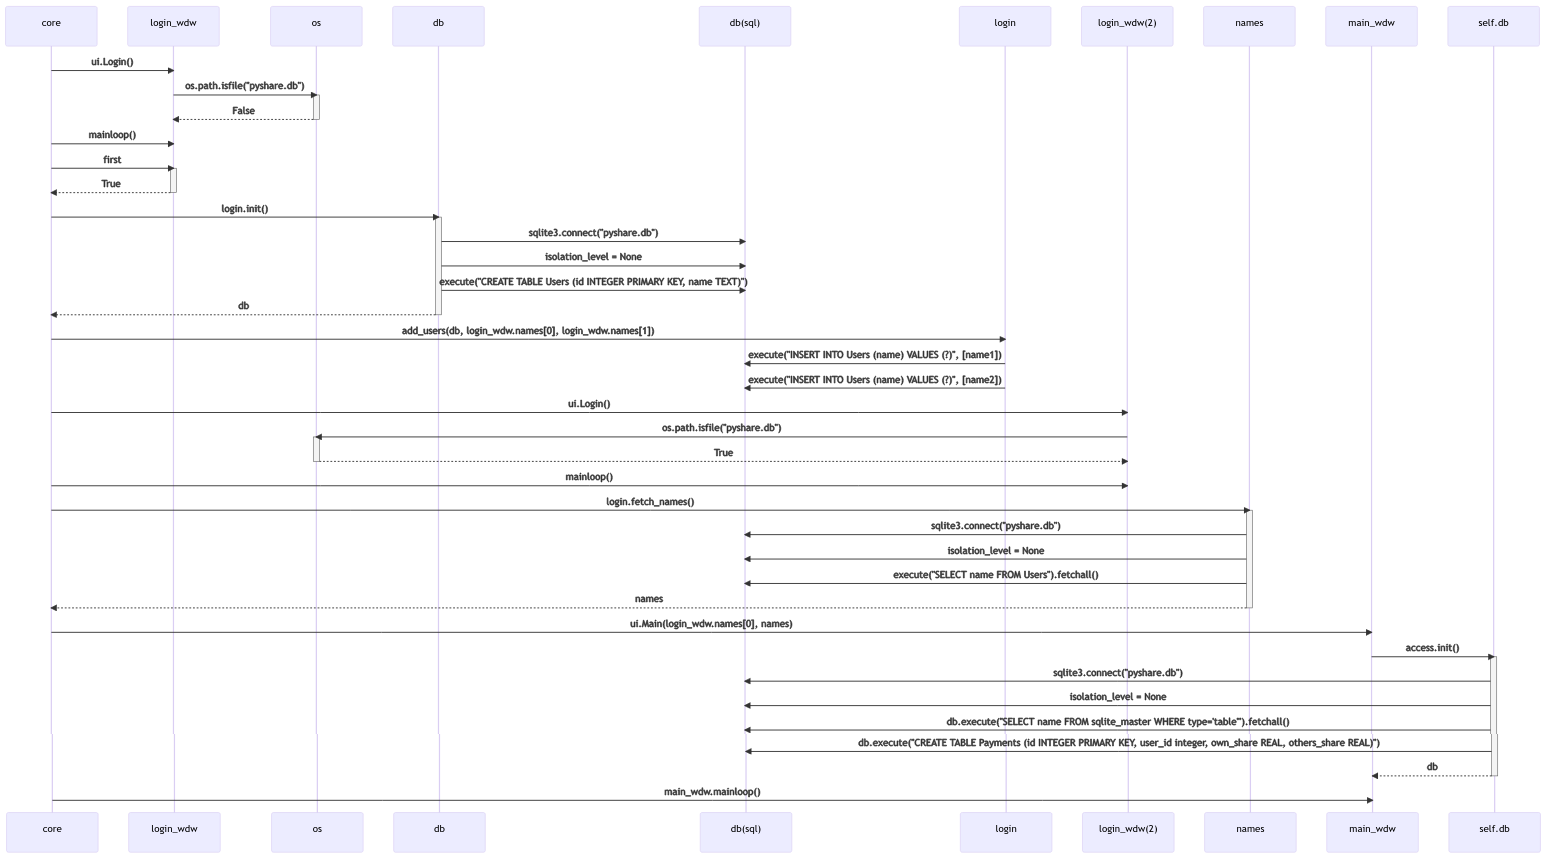
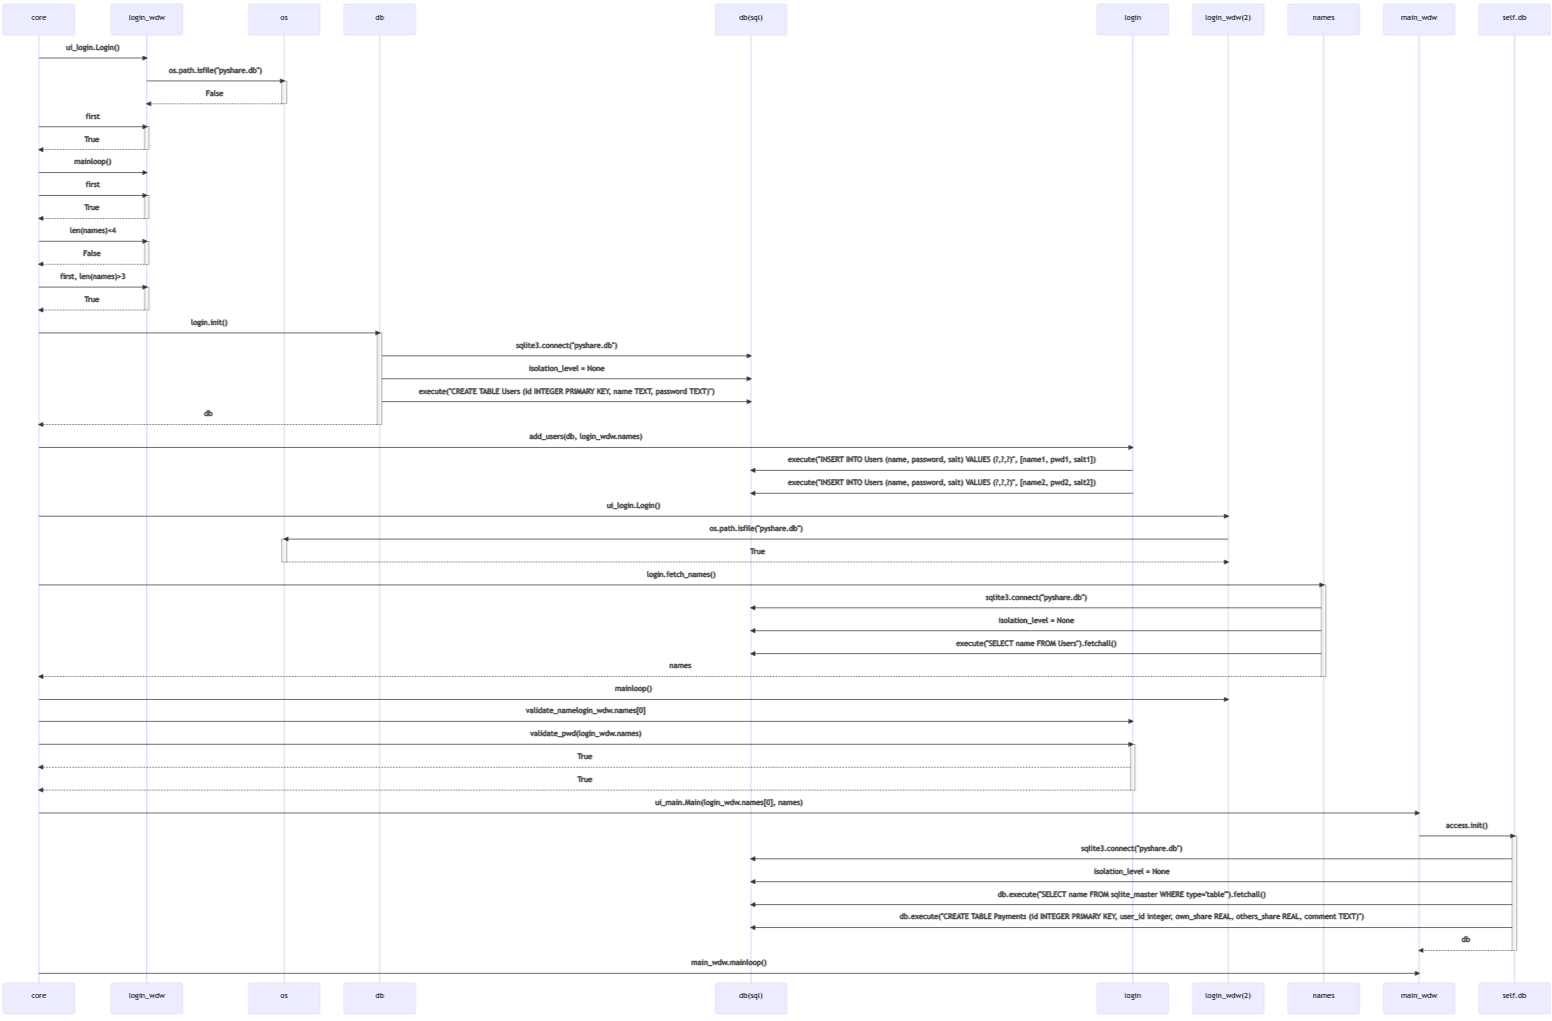
second version of week 6

diff --git a/src/ui/ui_login.py b/src/ui/ui_login.py
@@ -86,6 +86,7 @@ class Login(tk.Tk):
             self.user_label2.grid(row=4, column=0, columnspan=5, sticky="W")
         elif self.v1.get() == 0:
             # 0 -> not pressed
+            self.title_label.destroy()
             self.user_label1.destroy()
             self.user_label2.destroy()
 

diff --git a/src/db/login.py b/src/db/login.py
@@ -1,6 +1,5 @@
 import sqlite3
 import bcrypt
-import os
 
 # pylint expanantions:
 # -name "db" makes no sense in snake_case format

diff --git a/src/core.py b/src/core.py
@@ -1,4 +1,3 @@
-import sqlite3
 from ui import ui_main
 from ui import ui_login
 from db import login

diff --git a/dokumentaatio/kayttoohje.md b/dokumentaatio/kayttoohje.md
@@ -1,0 +1,24 @@
+# Käyttöohje
+
+Riippuvuuksien asentamisen jälkeen sovellus käynnistetään komennolla _poetry run invoke start_.
+&nbsp; <br>
+&nbsp; <br>
+Tämän jälkeen kumpikin käyttäjä luo itselleen **uniikin** käyttäjätunnuksen ja salasanan. "__Enter__"-napista pääsee eteenpäin, kun käyttäjä ja salasana ovat uniikkeja ja pituudeltaan vähintään yksi merkki. 
+&nbsp; <br>
+&nbsp; <br>
+Käyttäjien luomisen jälkeen pääsee sisäänkirjautumisnäkymään, johon samaan tapaan kirjoitetaan käyttäjätunnus ja salasana. Jos käyttäjä ei muista tunnustaan, "__Forgot Username?__" -valinnalla sen saa esiin.
+&nbsp; <br>
+&nbsp; <br>
+Pääikkunassa käyttäjä näkee vasemmalla suhteellisen velan (__Total__). Vihreällä värillä oleva positiivinen luku tarkoittaa, että käyttäjä on maksanut toista käyttäjää enemmän. Punainen ja negatiivinen luku puolestaan tarkoittaa, että käyttäjä on toiselle velkaa kyseisen summan.
+&nbsp; <br>
+&nbsp; <br>
+Käyttäjä voi lisätä maksun kahdella tavalla; hän voi valita tavan __50-50-splitting__, jolloin jompaankumpaan laatikkoon kirjoitettu summa kopioituu toiseen laatikkoon. Vaihtoehtoisesti käyttäjä voi valita __Choose shares__ -tavan, jolloin luvut voivat olla toisistaan eroavat. Laatikoihin voi kirjoittaa vain epänegatiivisia lukuja.
+&nbsp; <br>
+&nbsp; <br>
+Käyttäjä voi myös halutessaan lisätä kommentin, joka liitetään maksun yhteyteen. Maksun lisääjä, hänen osuutensa, toisen osuus sekä mahdollinen kommentti tulevat maksun lisäämisen jälkeen näkyville ruudulla näkyvään kenttään. Maksu lisätään __Enter__-napilla, joka hyväksyy maksun, jos kummassakin kentässä on sallittu summa.
+&nbsp; <br>
+![main window](main_window1.png)
+&nbsp; <br>
+## Ongelmatilanteet
+&nbsp; <br>
+Jos käyttäjä unohtaa salasanansa, syöttää väärät maksutiedot (tai haluaa nollata tilanteen) tai jotain odottamatonta tapahtuu, täytyy ohjelma resetoida. Tämä käy helpoiten komennolla _poetry run invoke test_, joka suorittaa testit ja samalla poistaa tietokannan. __Tietokannan poisto on peruuttamaton toimenpide, eikä tietoja saa palautettua__. 

diff --git a/dokumentaatio/arkkitehtuurikuvaus.md b/dokumentaatio/arkkitehtuurikuvaus.md
@@ -53,6 +53,16 @@ Yllä on kuvattu sovelluksen rakennetta. Isolla alkukirjaimella alkavat nimet ov
 &nbsp; <br>
 ![sequence](combined.png)
 &nbsp; <br>
-Yllä on kuvattu sovelluksen ensimmäistä käyttökertaa pääohjelman (core.py) näkökulmasta.
+Yllä on kuvattu sovelluksen ensimmäistä käyttökertaa pääohjelman (core.py) näkökulmasta. Voit klikata kuvaa avataksesi suuremman näkymän.
+&nbsp; <br>
 
+
+## Turvallisuus
+&nbsp; <br>
+Käyttäjien luomat salasanat tiivistetään (hashed) satunnaisen salt-bittijonon kanssa. Tiivistetty (hashed) salasana ja salt pidetään tallessa, ja näiden avulla voidaan turvallisesti tarkistaa käyttäjän henkilöllisyys. Vaikka ulkopuolinen taho pääsisi käsiksi tietokantaan, hän ei saa sieltä salasanoja. Lisäksi kirjautuessa sovellukseen ovat salasanat peitettyivä "*"-symboleilla, jotta kukaan ei pääse näkemään salasanaa ruudulta.
+&nbsp; <br>
+## Tallennus
+&nbsp; <br>
+Sovellus käyttää tietojen tallennuksen SQL-tietokantaa. Tietokanta jakautuu kahteen tauluun, josta ensimmäiseen tallennetaan käyttäjän id, nimi, tiivistetty (hashed) salasana ja salt. <br>
+Toisesta taulusta löytyy referenssi käyttäjän id:seen, maksun osuudet käyttäjittäin, sekä vaihtoehtoinen kommentti maksuun liittyen.
 

diff --git a/dokumentaatio/changelog.md b/dokumentaatio/changelog.md
@@ -29,3 +29,12 @@
 - Lisää testejä tietokantoihin liittyen
 - Suuret summat muutetaan nyt kymmenpotenssimuotoon, jotta ikkunan mittasuhteet eivät hajoa
 - Jatkettu koodin kommentointia
+
+## Viikko 6
+- Lisätty mahdollisuus tarkistaa sovellukseen lisätyt käyttäjänimet kirjautuessa
+- Jaettu ui:hin liittyvät asiat kahteen tiedostoon ja luotu näille oma kansio
+- Käyttäjä luo nyt myös salasanan
+- Salasana piilotetaan kirjautuessa "*"-merkeillä
+- Salasana tiivistetään ("hashed") ennen tietokantaan viemistä saltin kanssa
+- Summa värjätty tilanteen mukaan; vihreä; käyttäjä on maksanut enemmän, punainen -> käyttäjä velkaa toiselle, musta -> tasatilanne
+- Aloitettu docstringien lisäys

diff --git a/dokumentaatio/tyoaikakirjanpito.md b/dokumentaatio/tyoaikakirjanpito.md
@@ -9,4 +9,7 @@
 | 26.11. | 2    | Lisätty testejä tietokannalle ja ohjeita pääikkunaan |
 | 3.12. | 5    | Uusien ominaisuuksien lisäys (katso changelog) |
 | 4.12. | 5    | Koodin siistiminen, testien luonti |
-| yht   | 22    | | 
+| 10.12. | 3    | Salasanan lisäys, tiivistys & salt |
+| 12.12. | 2    | Värikoodi summaan, tiedosto- ja kansiorakenne |
+| 13.12. | 2    | Docstringit, bugien korjausta |
+| yht   | 29    | | 
